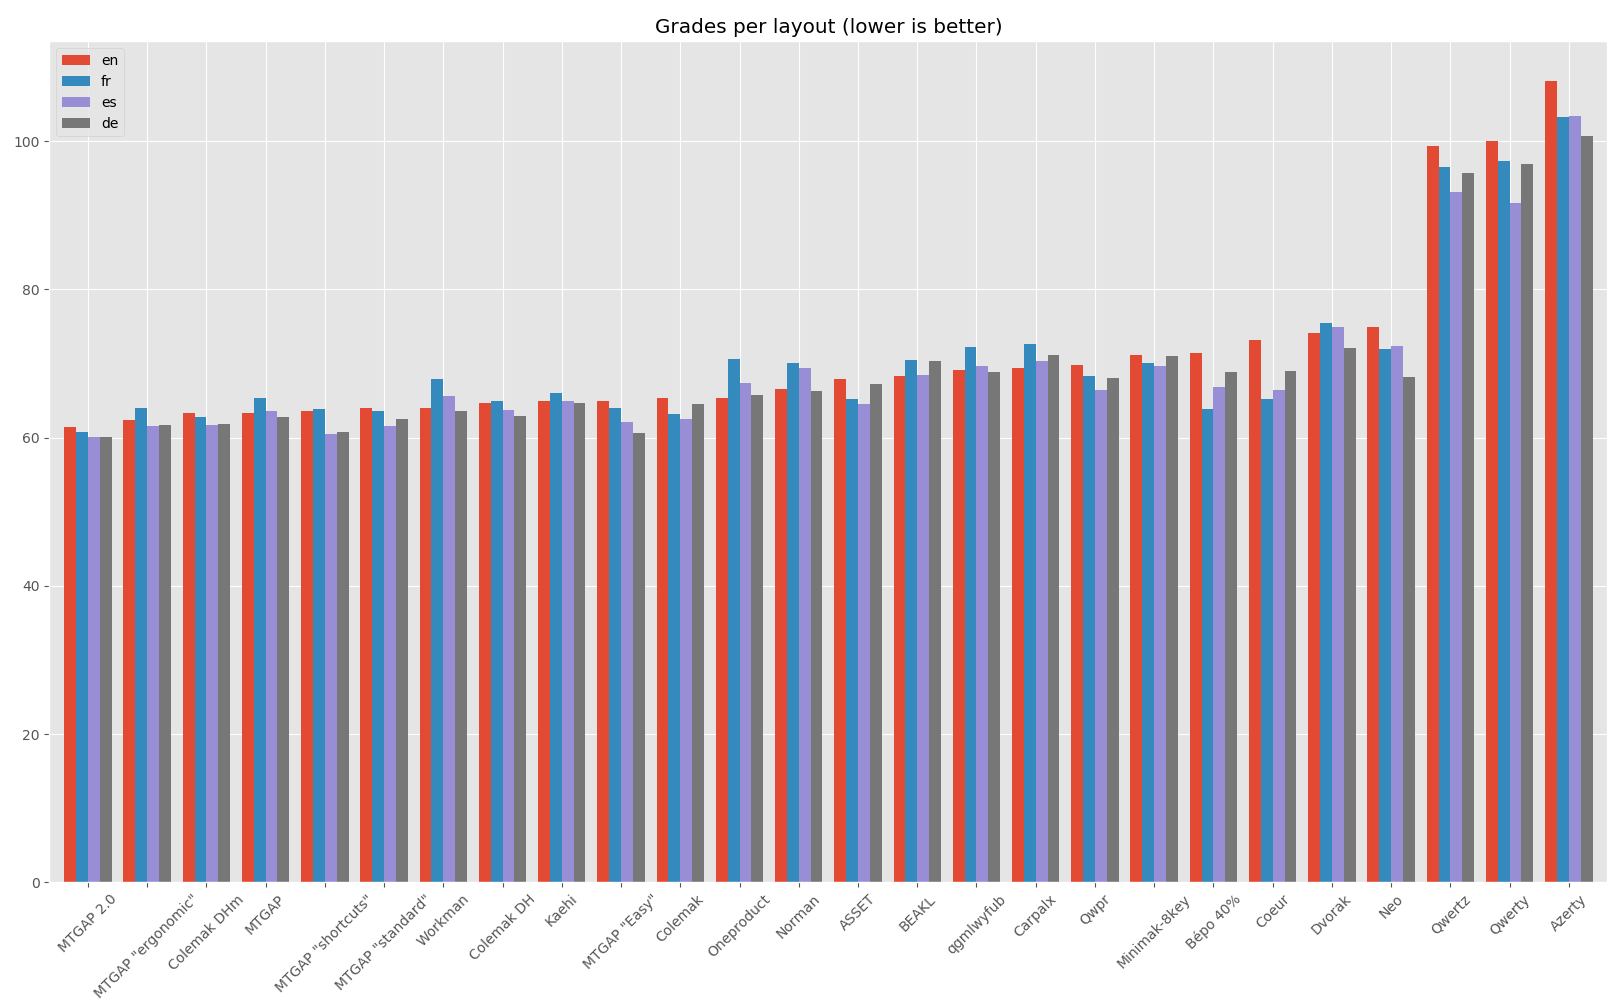
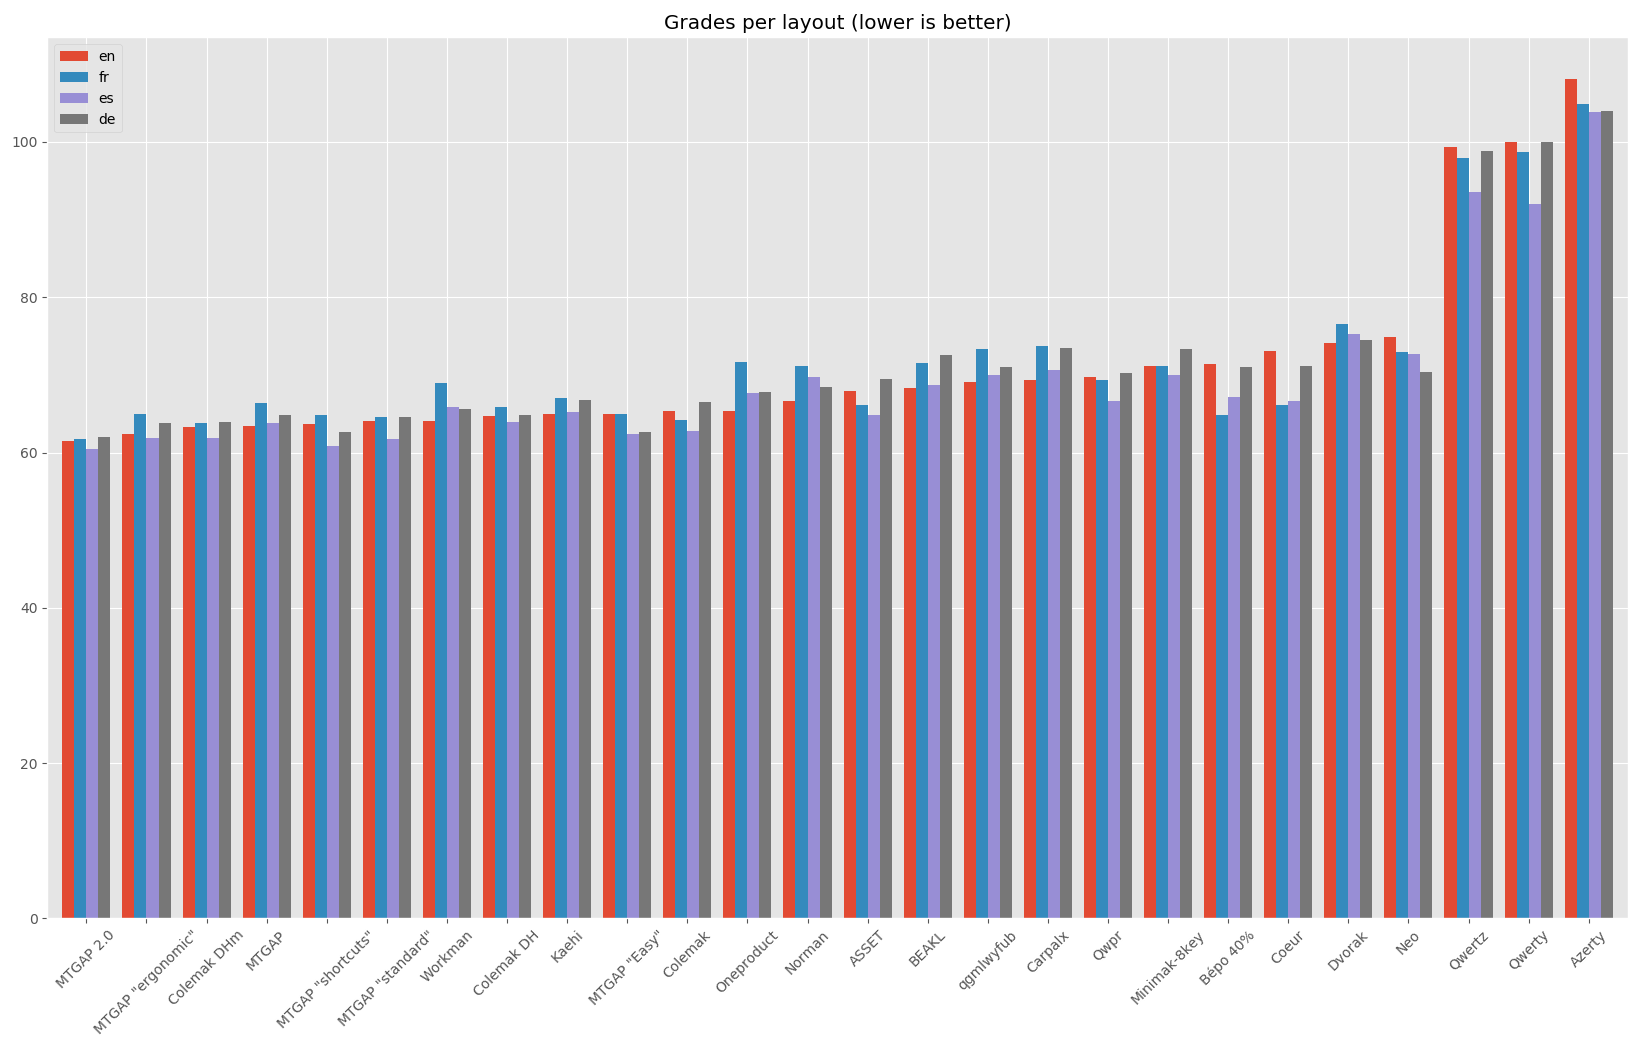
Normalized bigrams after ignored characters

diff --git a/layout_evaluation/script.py b/layout_evaluation/script.py
@@ -22,7 +22,8 @@ def main():
                 drop = True
         if drop:
             df_bigrams = df_bigrams.drop(row.Index)
-    # TODO normalize df_bigrams to get 100% on each column
+    # normalize df_bigrams to get 100% on each column
+    df_bigrams = df_bigrams * 100 / df_bigrams.sum(axis=0)
 
     # this prints letters present in bigrams but not in a layout
     # letters absent from a layout do not count in the grade
@@ -50,7 +51,8 @@ def main():
 
     print(df_results)
 
-    # TODO print dataframe in markdown format
+    # print results in markdown format (pandas 1.0+)
+    # print(df_results.to_markdown())
     
     # to plot with pandas
     plt.style.use('ggplot') # seaborn-whitegrid or ggplot
@@ -294,8 +296,7 @@ def layout_results(df_bigrams, df_bigram_weight):
             df_results.at[row.Index, column] = (df_bigrams[column]/100 * df_bigram_weight[row.Index]).sum()
     
     # normalize the results based of Qwerty English = 100%
-    qwertyEn = df_results.at['Qwerty', 'en']
-    df_results = df_results.applymap(lambda x: round(x/qwertyEn * 100, 2))
+    df_results = df_results.applymap(lambda x: round(x/df_results.at['Qwerty', 'en'] * 100, 2))
 
     return df_results
 

diff --git a/README.md b/README.md
@@ -98,11 +98,11 @@ The results for all layouts and languages are finally normalized compared to Qwe
 
 ### Key base weights
 
-
+TODO
 
 ### Penalties
 
-
+TODO
 
 ## Limits
 
@@ -114,7 +114,7 @@ TODO: compare results with personal corpus to estimate deviation
 
 ### Accented characters
 
-The results between languages are skewed because most accented characters are not taken into account. The effect is that they falsely grade better than English. 
+The results for languages outside English are slightly off because most accented characters are not taken into account. 
 
 Currently the ignored characters are `êàçâîôñäöüß/`, mainly because those characters are absent from most considered layouts. The characters `é` and `è` were added manually to the layouts (on unused keys, on vowel side if there's one) because I particularly care about French, and due to their high frequency (2.85%).
 
@@ -122,13 +122,15 @@ The characters `'` and `-` were also added when missing, on unused keys.
 
 The issue mainly affects German (`äöüß`, 1.56% of the characters), but also French (`êàçâîô`, 0.75%) and Spanish (`ñ`, 0.22%).
 
-This effect could be mitigated by dropping them from the frequencies and normalizing the remaining ones (TODO).
+To mitigate this effect the bigram frequencies are normalized after removing the ignored characters, so the summed grade is still calculated over 100%.
 
 ## Script
 
 Requirements: Python 3, Pandas, Matplotlib.
 
 The script `script.py` uses the bigram statistics from `stats.csv`, and the configuration (key weights, penalties, and layouts definitions) from `config.txt` to generate the results (table and plot).
+
+To customize the script, edit `config.txt` and have a look at the main function `main()`.
 
 The code isn't very efficient as it iterates through dataframes to generate the results. It executes in \~10s so in practice it doesn't really matter.
 
@@ -140,33 +142,32 @@ TODO
 
 Layout|English|French|Spanish|German
 :--|--:|--:|--:|--:
-MTGAP 2.0|61.42|60.82|60.13|60.07
-MTGAP "ergonomic"|62.42|63.98|61.57|61.77
-Colemak DHm|63.29|62.82|61.65|61.87
-MTGAP|63.37|65.36|63.57|62.85
-MTGAP "shortcuts"|63.64|63.92|60.52|60.70
-MTGAP "standard"|64.02|63.61|61.51|62.51
-Workman|64.06|67.90|65.55|63.53
-Colemak DH|64.67|64.89|63.70|62.86
-Kaehi|64.95|65.96|64.96|64.65
-MTGAP "Easy"|64.99|63.95|62.08|60.69
-Colemak|65.32|63.18|62.47|64.49
-Oneproduct|65.38|70.55|67.36|65.72
-Norman|66.59|70.09|69.44|66.24
-ASSET|67.86|65.15|64.53|67.25
-BEAKL|68.36|70.43|68.41|70.27
-qgmlwyfub|69.10|72.20|69.68|68.82
-Carpalx|69.33|72.67|70.30|71.17
-Qwpr|69.76|68.28|66.40|68.02
-Minimak-8key|71.09|70.13|69.61|71.03
-Bépo 40%|71.46|63.80|66.86|68.80
-Coeur|73.13|65.19|66.38|68.95
-Dvorak|74.11|75.42|74.90|72.10
-Neo|74.92|71.89|72.42|68.15
-Qwertz|99.39|96.48|93.18|95.76
-Qwerty|100.00|97.28|91.61|96.91
-Azerty|108.06|103.32|103.36|100.75
-
+MTGAP 2.0|61.42|61.74|60.40|62.01
+MTGAP "ergonomic"|62.42|64.95|61.84|63.77
+Colemak DHm|63.29|63.78|61.93|63.87
+MTGAP|63.37|66.35|63.85|64.88
+MTGAP "shortcuts"|63.64|64.88|60.79|62.66
+MTGAP "standard"|64.02|64.57|61.78|64.53
+Workman|64.06|68.93|65.83|65.58
+Colemak DH|64.67|65.87|63.98|64.89
+Kaehi|64.95|66.96|65.24|66.74
+MTGAP "Easy"|64.99|64.92|62.35|62.65
+Colemak|65.32|64.14|62.74|66.57
+Oneproduct|65.38|71.62|67.66|67.84
+Norman|66.59|71.15|69.75|68.38
+ASSET|67.86|66.14|64.82|69.42
+BEAKL|68.36|71.49|68.71|72.53
+qgmlwyfub|69.10|73.29|69.99|71.04
+Carpalx|69.33|73.77|70.60|73.46
+Qwpr|69.76|69.31|66.69|70.21
+Minimak-8key|71.09|71.20|69.92|73.33
+Bépo 40%|71.46|64.77|67.15|71.02
+Coeur|73.13|66.17|66.67|71.18
+Dvorak|74.11|76.56|75.23|74.43
+Neo|74.92|72.98|72.74|70.35
+Qwertz|99.39|97.94|93.59|98.85
+Qwerty|100.00|98.75|92.01|100.04
+Azerty|108.06|104.89|103.82|104.00
 
 # Conclusion
 
